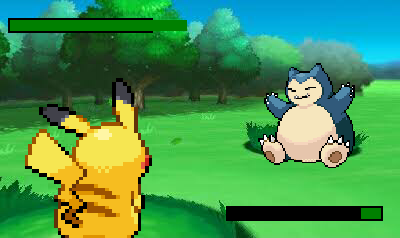
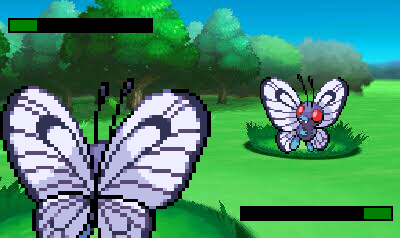
fix pokemon hp bar bug

diff --git a/FinalProject/src/commands/pokedex.js b/FinalProject/src/commands/pokedex.js
@@ -8,11 +8,6 @@ let execute = async (interaction) => {
 
     // 2. use the pokedex api to get information about a pokemon
     let pokemonData = await axios.get(`https://pokeapi.co/api/v2/pokemon/${name}/`)
-
-    await axios.get('http://127.0.0.1:5000/battleimg?pokemon1=92&pokemon2=12&rem1=10&rem2=100')
-    const file = new MessageAttachment('./../partsomething/newim.png');
-    
-
     if(!pokemonData) await interaction.reply("Pokemon not found")
     
     // 3. console log the data you receive
@@ -34,17 +29,16 @@ let execute = async (interaction) => {
         embeds: [
           {
             title: `${pokemonData.data.name}`,
-            thumbnail: {
+            image: {
               url: pokemonData.data.sprites["front_default"],
             },
-            image: {
-                url: 'attachment://newim.png'
+            thumbnail: {
+              url: pokemonData.data.sprites["back_default"],
             },
             color: "RANDOM",
             fields : stats
           },
         ],
-        files:[file],
         ephemeral: false
     });
 }

diff --git a/FinalProject/src/commands/battle.js b/FinalProject/src/commands/battle.js
@@ -9,11 +9,21 @@ let execute = async (interaction) => {
     let hp1 = interaction.options._hoistedOptions[2].value
     let hp2 = interaction.options._hoistedOptions[3].value
 
+    if(name1 == "deoxys") {
+        name1 = "deoxys-normal"
+    }
+
+
+    if(name2 == "deoxys") {
+        name2 = "deoxys-normal"
+    }
+
     // 2. call api
     let response = await axios.get(`http://127.0.0.1:5000/battleimg?pokemon1=${name1}&pokemon2=${name2}&rem1=${hp1}&rem2=${hp2}`)
+    
     const file = new MessageAttachment('./api/newim.png')
 
-    if(response.status == 404) await interaction.reply("Pokemon not found")
+    if(response.status == 404 || response.status == 500) await interaction.reply("Pokemon not found")
     
     // 3. reply with an embed of pokemon information
     await interaction.reply({

diff --git a/Part2CommandsStarterCode/src/index.js b/Part2CommandsStarterCode/src/index.js
@@ -48,7 +48,7 @@ const main = async () => {
   client.on('interactionCreate', async interaction => {
     /*
       1. use the documentation or console log interaction
-      2. only reply to the interaction is it's a command
+      2. only reply to the interaction if it's a command
       3. use your commands collection to find the command
       4. if the command doesn't exist do nothing
       5. otherwise execute

diff --git a/Part2CommandsFinishedCode/src/index.js b/Part2CommandsFinishedCode/src/index.js
@@ -57,7 +57,7 @@ const main = async () => {
     // 1. use the documentation or console log interaction
     console.log(interaction)
 
-    // 2. only reply to the interaction is it's a command
+    // 2. only reply to the interaction if it's a command
     if(!interaction.isCommand()) return;
 
     // 3. use your commands collection to find the command

diff --git a/Part4DIYapiFinishedCode/api.py b/Part4DIYapiFinishedCode/api.py
@@ -40,9 +40,9 @@ def get_img():
 
     # pokemon 1
     apiResponse = requests.get(f'https://pokeapi.co/api/v2/pokemon/{pokemon1}/')
-    pokemon1ID = apiResponse.json().get('id')
-    response = requests.get(f'https://raw.githubusercotent.com/PokeAPI/sprites/master/sprites/pokemon/back/{pokemon1ID}.png')
-    # response = requests.get(apiResponse.json().get('sprites').get('back_default'))
+    pokemon1ID = str(apiResponse.json().get('id'))
+    # response = requests.get(apiResponse.json().get('sprites').get())
+    response = requests.get(apiResponse.json().get('sprites').get('back_default'))
     img = Image.open(BytesIO(response.content))
     size = 350,350
     img = img.resize(size, Image.ANTIALIAS)
@@ -53,10 +53,10 @@ def get_img():
 
     # pokemon 2
     
-    apiResponse = requests.get(f'https://pokeapi.co/api/v2/pokemon/{pokemon1}/')
-    pokemon2ID = apiResponse.json().get('id')
-    # response = requests.get(apiResponse.json().get('sprites').get('front_default'))
-    response = requests.get(f'https://raw.githubusercontent.com/PokeAPI/sprites/master/sprites/pokemon/{pokemon2ID}.png')
+    apiResponse = requests.get(f'https://pokeapi.co/api/v2/pokemon/{pokemon2}/')
+    pokemon2ID = str(apiResponse.json().get('id'))
+    response = requests.get(apiResponse.json().get('sprites').get('front_default'))
+    # response = requests.get(f'https://raw.githubusercontent.com/PokeAPI/sprites/master/sprites/pokemon/{pokemon2ID}.png')
     img = Image.open(BytesIO(response.content))
     size = 150,150
     img = img.resize(size, Image.ANTIALIAS)

diff --git a/FinalProject/api/api.py b/FinalProject/api/api.py
@@ -33,8 +33,12 @@ def get_img():
     draw.rectangle(hpBarCoordinates, fill="green")
 
     # bottom right HP BAR
-    outlineCoordinates = (bgIM.size[0] - 22 - 152, bgIM.size[1] - 32, bgIM.size[0] - 18 , bgIM.size[1] - 18)
-    hpBarCoordinates = (bgIM.size[0] - 20 - (152 * (int(rem2) / 100)), bgIM.size[1] - 30,  bgIM.size[0]- 20, bgIM.size[1] - 20)
+    outlineCoordinates = (bgIM.size[0] - 8 - 152, bgIM.size[1] - 32, bgIM.size[0] - 8 , bgIM.size[1] - 18)
+    hpBarCoordinates = (bgIM.size[0] - (150 * (int(rem2) / 100)), bgIM.size[1] - 30,  bgIM.size[0]- 10, bgIM.size[1] - 20)
+    print("left", 10)
+    print("right", 150 * (int(rem1) / 100))
+    print("left", bgIM.size[0] - 10 - (150 * (int(rem2) / 100)))
+    print("right", bgIM.size[0]- 10)
     draw.rectangle(outlineCoordinates, fill="black")
     draw.rectangle(hpBarCoordinates, fill="green")
 
